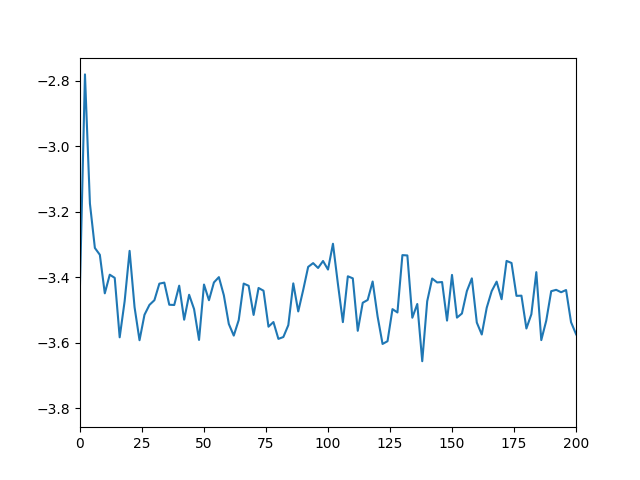
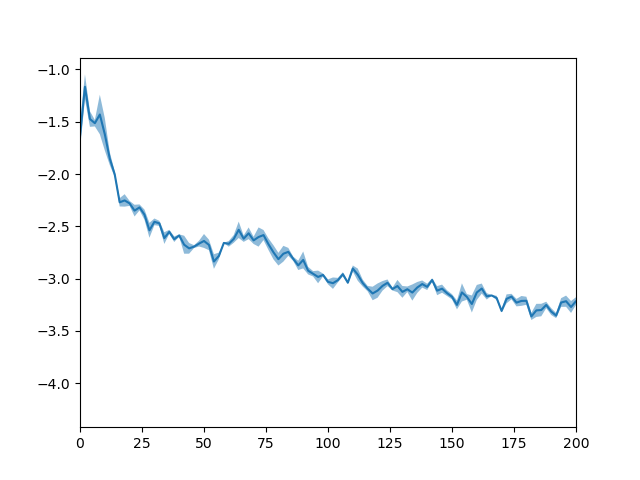
Fixed few error, Implemented fundamental functions (import, downsample, normalize, butter-filter, spectrogram, and power spectrum)

diff --git a/gui/ui_main.py b/gui/ui_main.py
@@ -1,15 +1,19 @@
 import sys
 import time
 import PySide6 as pys
+import numpy as np
 from PySide6.QtCore import Qt, Signal
 from PySide6.QtWidgets import QScrollArea, QVBoxLayout, QWidget, QLabel, QHBoxLayout, QTextEdit, QMainWindow, \
     QApplication
 from matplotlib.backends.backend_qt5agg import FigureCanvasQTAgg
-from matplotlib.figure import Figure
 
 import core.ants as ants
 
-batch_ants = ants.Ants()  # global ants object
+
+class AntsBatch:
+    def __init__(self):
+        self.batch_ants = np.ndarray
+        self.storage = str
 
 
 class ChatBrowser(QScrollArea):
@@ -98,7 +102,7 @@ class Prompt(QWidget):
         return self.__textEdit
 
 
-class MainWindow(QMainWindow):
+class MainWindow(QMainWindow, AntsBatch):
     def __init__(self):
         super().__init__()
         self.__initUi()
@@ -128,7 +132,6 @@ class MainWindow(QMainWindow):
         self.__textEdit.clear()
 
     def __operation_classifier(self, input):
-        global batch_ants
 
         if input.startswith('import'):  # example: import > /home/user/.../file.mat
             try:
@@ -136,26 +139,31 @@ class MainWindow(QMainWindow):
 
                 path_list = ants.dirprep.DirPrep.get_data_directory(superior_path=path,
                                                                     expander='mat')  # get data directories
-                batch_ants = ants.Ants.make(batch_size=len(path_list))  # make 'ants' as worker
-                [batch_ants[i].call_neuralynx(path=path_list[i]) for i, _ in enumerate(batch_ants)]  # import neuralynx
+                self.batch_ants = ants.Ants.make(batch_size=len(path_list))  # make 'ants' as worker
+                [self.batch_ants[i].call_neuralynx(path=str(path_list[i])) for i, _ in
+                 enumerate(self.batch_ants)]  # import neuralynx
 
                 self.__response(response_content=str(operation) + 'succeeded')  # report result
+                self.__response(response_content=str(self.batch_ants[0].samples[0:10]))
             except:
                 self.__response(response_content='Failed: ' + input)  # report result
         elif input.startswith('downsample'):  # example: downsample > 2000
             try:
                 operation, target_fs = self.__process_query(query=input)
 
-                [batch_ants[i].downsampling(target_fs=target_fs) for i, _ in enumerate(batch_ants)]  # downsampling
+                # downsample
+                [self.batch_ants[i].downsampling(target_fs=int(target_fs)) for i, _ in enumerate(self.batch_ants)]
 
                 self.__response(response_content=str(operation) + 'succeeded')  # report result
+                self.__response(response_content=str(self.batch_ants[0].sample_frequency))
             except:
                 self.__response(response_content='Failed: ' + input)  # report result
         elif input.startswith('normalize'):  # example: normalize > rms
             try:
                 operation, method = self.__process_query(query=input)
 
-                [batch_ants[i].normalization(method=method) for i, _ in enumerate(batch_ants)]  # normalization
+                # normalization
+                [self.batch_ants[i].normalization(method=str(method)) for i, _ in enumerate(self.batch_ants)]
 
                 self.__response(response_content=str(operation) + 'succeeded')  # report result
             except:
@@ -164,8 +172,8 @@ class MainWindow(QMainWindow):
             try:
                 operation, band = self.__process_query(query=input)
 
-                [batch_ants[i].bandpass_butter(target_band=eval(band)) for i, _ in
-                 enumerate(batch_ants)]  # bandpass filter
+                # bandpass filter
+                [self.batch_ants[i].bandpass_butter(target_band=eval(band)) for i, _ in enumerate(self.batch_ants)]
 
                 self.__response(response_content=str(operation) + 'succeeded')  # report result
             except:
@@ -176,7 +184,7 @@ class MainWindow(QMainWindow):
                 sub_params = self.__process_subparam(parameter=parameters)
 
                 # calc multitaper spectrogram
-                [batch_ants[i].spectrogram(**sub_params) for i, _ in enumerate(batch_ants)]
+                [self.batch_ants[i].spectrogram(**sub_params) for i, _ in enumerate(self.batch_ants)]
 
                 self.__response(response_content=str(operation) + 'succeeded')  # report result
             except:
@@ -186,9 +194,9 @@ class MainWindow(QMainWindow):
                 operation, parameters = self.__process_query(query=input)
                 sub_params = self.__process_subparam(parameter=parameters)
 
-                # f, m, sem = ants.Ants.sem(batch=batch_ants)  # calculate sem
+                f, m, sem = ants.Ants.sem(batch=self.batch_ants)  # calculate sem
                 # draw power spectrum with sem
-                storage = ants.Ants().power_spectrum(**sub_params)
+                self.storage = ants.Ants().power_spectrum(freqs=f, mean=m, sem=sem, **sub_params)
 
                 self.__response(response_content=str('operation') + 'succeeded')  # report result
                 # self.__fig_response(figure=fig)  # report figure
@@ -196,9 +204,14 @@ class MainWindow(QMainWindow):
                 #     self.__fig_response(figure=fig)  # report figure
                 # except:
                 #     self.__response(response_content=str(operation) + ': Cannot plot figure')  # report figure error
-                self.__response(response_content=str('operation') + ': Stored in, ' + storage)  # report storage
+                # self.__response(response_content=str('operation') + ': Stored in, ' + storage)  # report storage
             except:
                 self.__response(response_content='Failed: ' + input)  # report result
+        elif input.startswith('test'):
+            operation, parameters = self.__process_query(query=input)
+            sub_params = self.__process_subparam(parameter=parameters)
+            self.__response(response_content=str(type(operation)))  # report result
+            self.__response(response_content=str(type(sub_params)))  # report result
 
     def __response(self, response_content):
         self.__browser.showText(response_content, False)
@@ -208,7 +221,7 @@ class MainWindow(QMainWindow):
 
     def __process_query(self, query):
         component = query.split('>')
-        [component[i].strip() for i, _ in enumerate(component)]  # strip all
+        component = [component[i].strip() for i, _ in enumerate(component)]  # strip all
         operation = component[0]  # operation type
         # last value must be parameter
         parameter = component[-1]
@@ -218,7 +231,7 @@ class MainWindow(QMainWindow):
         dict_sub_params = {}
 
         sub_parameters = parameter.split(';')
-        [sub_parameters[i].strip() for i, _ in enumerate(sub_parameters)]  # strip all
+        sub_parameters = [sub_parameters[i].strip() for i, _ in enumerate(sub_parameters)]  # strip all
         sub_parameters = [sub_parameters[i].split('=') for i, _ in enumerate(sub_parameters)
                           if '=' in sub_parameters[i]]  # split sub_parameter and sub_param value
         # [dict_sub_params.update({component[0].strip(): eval(component[-1])}) for component in

diff --git a/postprocessing/power.py b/postprocessing/power.py
@@ -37,7 +37,7 @@ class Power(postprocessing.Postprocessing):
             freqs, stack = stack_dict['frequency'], stack_dict['stack']
         elif 'batch' in kwargs:
             batch = kwargs.get('batch')
-            if isinstance(batch, np.ndarray):
+            if isinstance(batch, list) or isinstance(batch, np.ndarray):
                 stack_dict = Power.stack_power(ants=batch)
                 freqs, stack = stack_dict['frequency'], stack_dict['stack']
             else:
